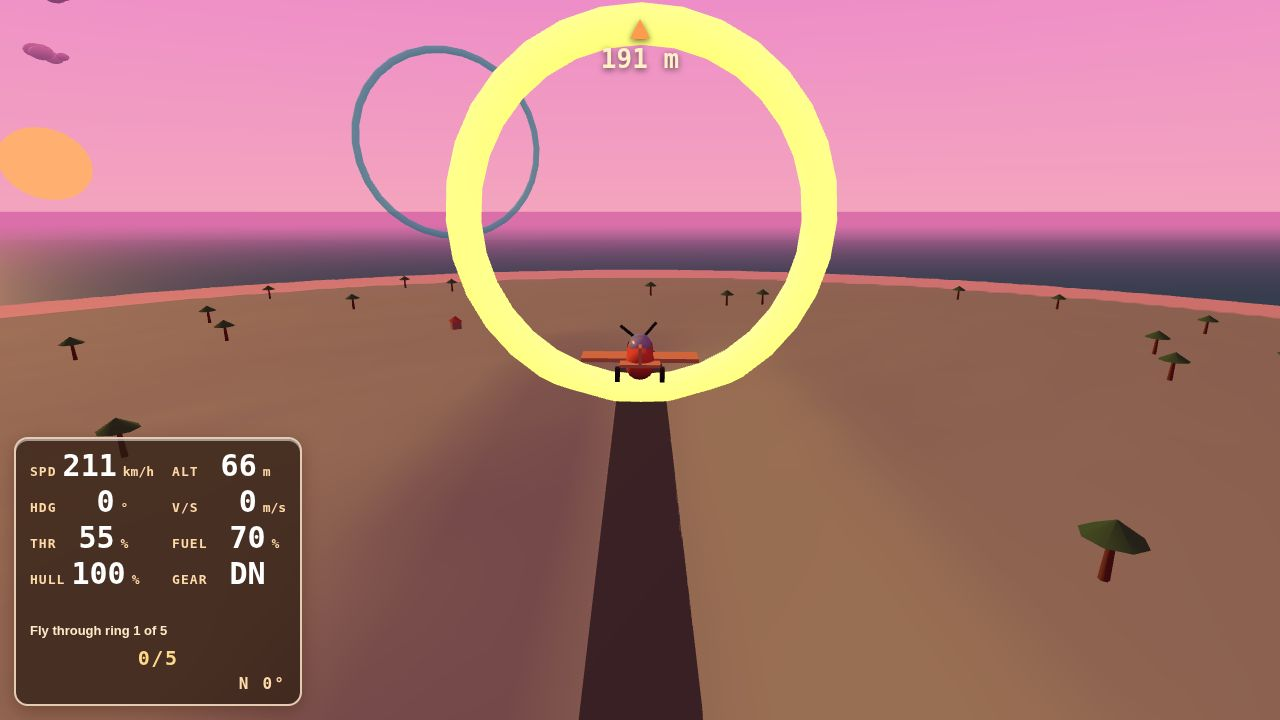
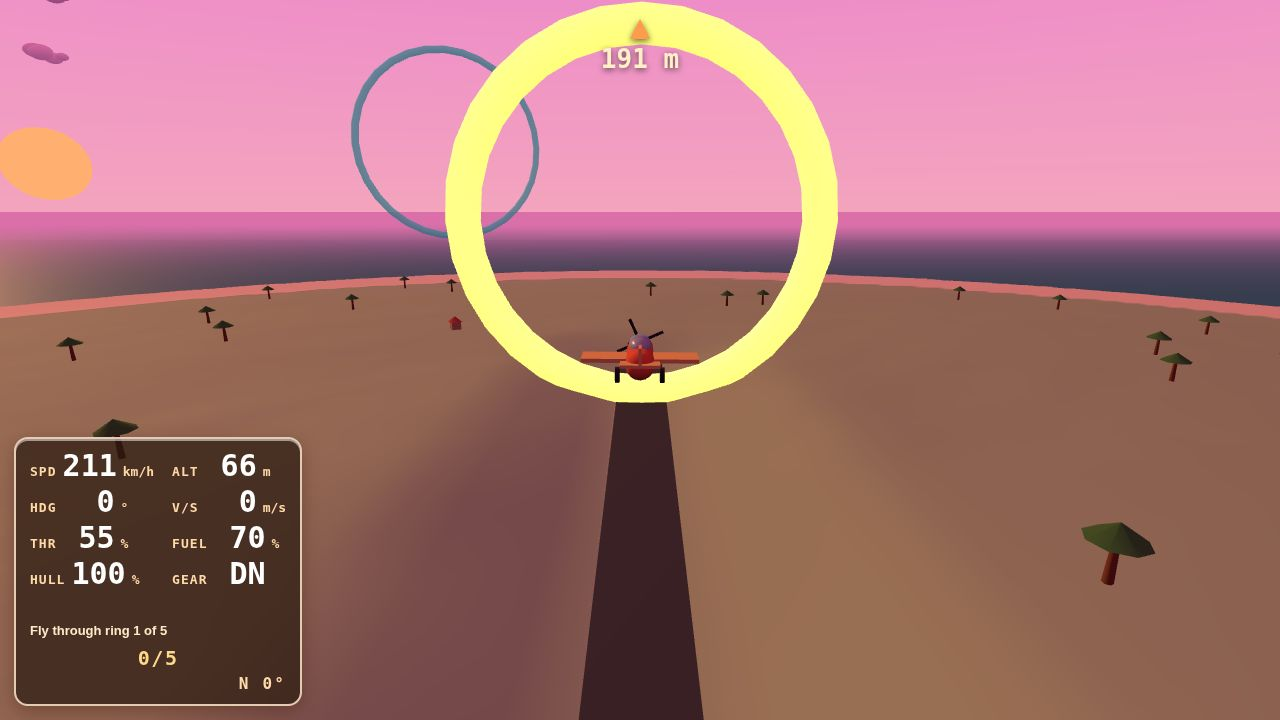
CP7 step 3: softer emissive pink-white clouds kept off the flight path

diff --git a/game/src/world/sky.js b/game/src/world/sky.js
@@ -47,8 +47,8 @@ export function buildSky(THREE, scene, doc) {
   scene.add(sun);
   scene.add(sun.target);
 
-  const cloudMat = new THREE.MeshStandardMaterial({ color: 0xfff2f4, roughness: 1, metalness: 0, emissive: 0x5a2f42, emissiveIntensity: 0.5 });
-  const puff = new THREE.SphereGeometry(1, 8, 8);
+  const cloudMat = new THREE.MeshStandardMaterial({ color: 0xfff3f6, roughness: 1, metalness: 0, emissive: 0x7a3f5a, emissiveIntensity: 0.65 });
+  const puff = new THREE.SphereGeometry(1, 16, 12);
   const clusters = 26;
   const perCluster = 5;
   const clouds = new THREE.InstancedMesh(puff, cloudMat, clusters * perCluster);
